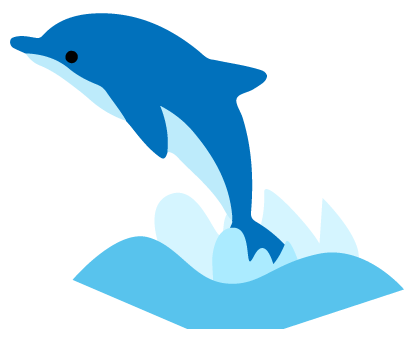
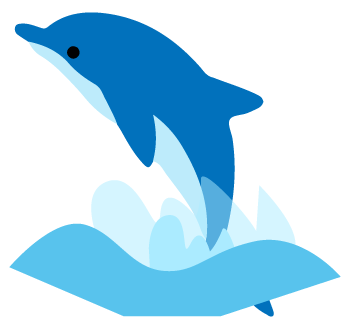
up

Changed region(s): [[0.0287, 0.1824, 0.9742, 0.9726], [0.0287, 0.0304, 0.5444, 0.4559], [0.8883, 0.7599, 0.9169, 0.7903]]

diff --git a/ex1.html b/ex1.html
@@ -51,6 +51,11 @@ html, body {height: 100%;width: 100%;}
 #img7_1{left: 50%;bottom: 0;z-index: 3;height: 100%;}
 #img7_2{left: 50%;bottom: 10%;z-index: 5;width: 100%;}
 #img7_3{left: 85%;bottom: -8%;z-index: 2;width: 80%;}
+#img8_1{left: 50%;bottom: 0;z-index: 6;height: 100%;}
+#img8_2{left: 15%;bottom: 29%;z-index: 2;width: 75%;}
+#img8_3{left: 55%;bottom: 35%;width: 45%;}
+#img8_4{left: 30%;bottom: 10%;z-index: 3;width: 37%;}
+#img8_5{left: 80%;bottom: 15%;z-index: 5;width: 60%;}
 h1{position: fixed;right: 0;z-index: 1;}
 .box{position: absolute;width: 300px;height: 300px;background-color: red;}
 .box1{left: 50%;margin-left: -150px;top: 900px;}
